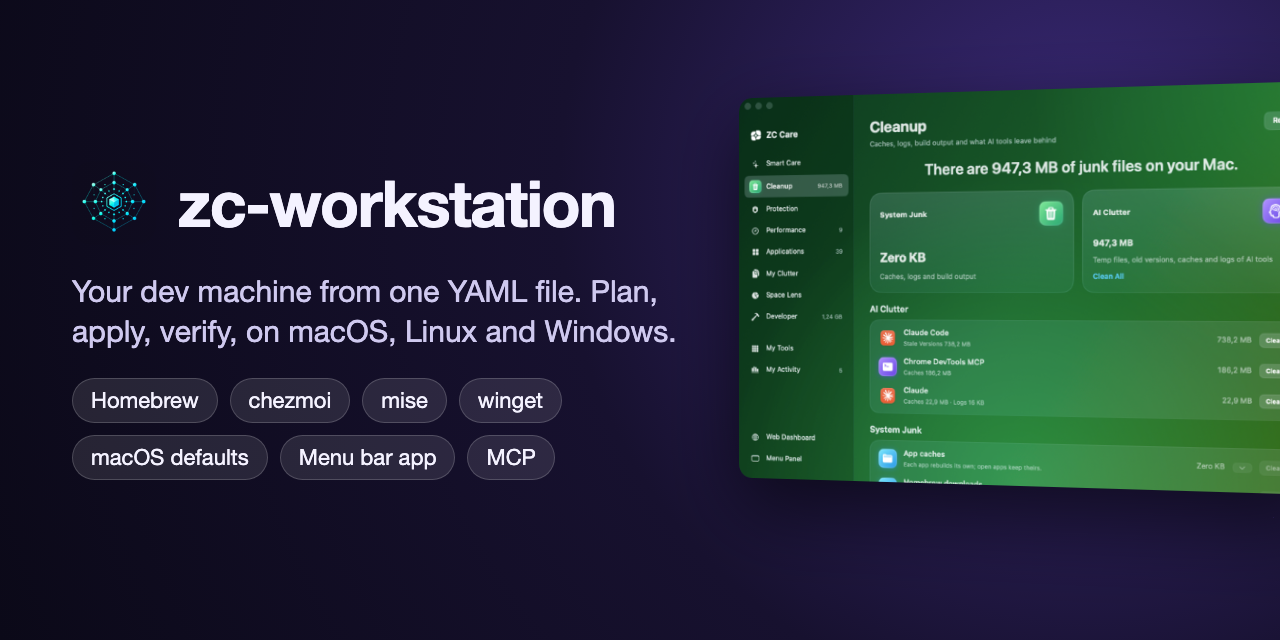
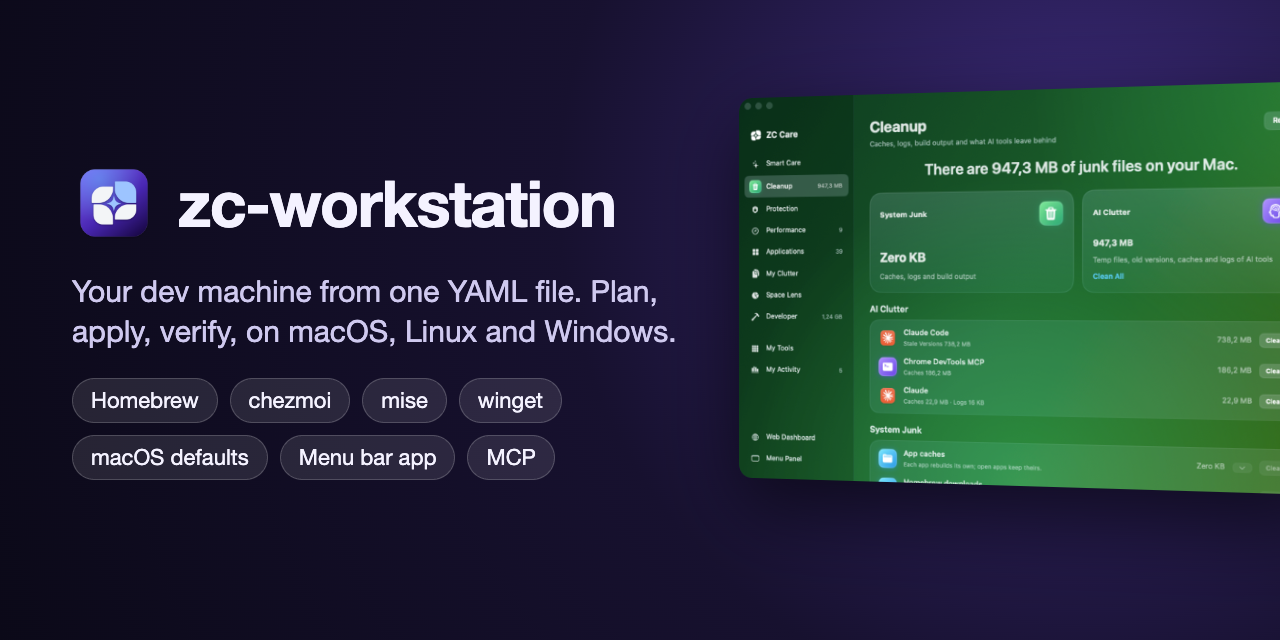
docs(app): add a readme with screenshots and diagrams
The app folder had no README, so GitHub showed a bare file list there.
It now says how to install ZCBar, how it drives the CLI, what each panel
tab and ZC Care module does, where cleaned files go, what is never
touched, the zcbar:// URLs and how to develop it, with screenshots and
two diagrams: how the app reaches the CLI and files, and the
scan-review-confirm flow every module follows.

The repository mark and social preview now use the current ZoolCoder
logo, the one the app icon is drawn from.

Changed region(s): [[0.0625, 0.25, 0.125, 0.375]]

diff --git a/apps/menubar/README.md b/apps/menubar/README.md
@@ -1,0 +1,227 @@
+<p align="center">
+  <img src="../../.github/mark.png" alt="ZoolCoder" width="96">
+</p>
+
+<h1 align="center">ZCBar and ZC Care</h1>
+
+ZCBar is the macOS menu bar app for [zc-workstation](../../README.md). It
+shows what the CLI would change, your Mac's vitals and outdated packages,
+and opens **ZC Care**, a window that cleans, protects and tunes the Mac.
+Nothing changes until you approve it.
+
+<p align="center">
+  <img src="screenshots/care-smart.png" alt="ZC Care's Smart Care: cleanup, health, applications, performance and clutter in one scan" width="80%">
+</p>
+
+<p align="center">
+  <img src="screenshots/panel-mac.png" alt="The panel's Mac tab: health, security checks, disk, memory, battery, CPU and Wi-Fi" width="32%">
+  <img src="screenshots/panel-overview.png" alt="The panel's Overview tab: every target fully in place" width="32%">
+  <img src="screenshots/panel-updates.png" alt="The panel's Updates tab: outdated formulae with Update and Update All" width="32%">
+</p>
+
+## Install
+
+ZCBar needs macOS 14 or later, Xcode or the Swift toolchain, and the
+`zc-workstation` CLI. From the repository root:
+
+```console
+$ make app-install
+installed ~/Applications/ZCBar.app; open it once, then tick Open at login
+```
+
+This builds `bin/ZCBar.app`, signs it ad hoc and copies it to
+`~/Applications`. ZCBar has no Dock icon; look for the mark in the menu bar.
+
+A Finder-opened app gets no shell environment. ZCBar therefore:
+
+- reads `PATH` from your login shell
+- looks for `zc-workstation` on that `PATH`, then in `~/.local/bin` and
+  `/opt/homebrew/bin`
+
+If `ZC_WORKSTATION_CONFIG` is set, `make app-install` passes it to the app
+once. Use *Choose Config…* in the panel to change it later.
+
+## How it works
+
+ZCBar does not reimplement zc-workstation. It runs the CLI and reads its
+`-json` output. ZC Care is the one part that works on files itself:
+
+```mermaid
+flowchart LR
+    subgraph app["ZCBar.app"]
+        UI["ZCBar<br/>panel · ZC Care window<br/>SwiftUI + AppKit"]
+        Core["ZCBarCore<br/>CLI JSON · scans · care plans<br/>tested, no UI"]
+        UI --> Core
+    end
+    Core -->|"status · list · doctor -json"| CLI["zc-workstation CLI"]
+    Core -->|"plan -out, then apply · remove"| CLI
+    CLI --> Tools["brew · chezmoi · mise<br/>defaults · launchctl"]
+    Core -->|"scan, then delete or Trash<br/>after you confirm"| Files["caches · logs · apps<br/>clutter · idle dependencies"]
+    SB["SketchyBar · Raycast · scripts"] -->|"zcbar:// URLs"| UI
+```
+
+| ZCBar shows | From |
+|---|---|
+| What each target has and misses | `zc-workstation status -json` |
+| Outdated and undeclared items | `zc-workstation list -json` |
+| Health findings | `zc-workstation doctor -json` |
+| *Apply*, *Update* | `plan -out` (with `-upgrade` and `-only` for updates), then `apply` of that saved plan |
+| *Uninstall* | `zc-workstation remove` |
+
+Every change that touches the workstation goes through the CLI. The CLI's
+checks therefore hold here too: plan before apply, verify after, and no
+uninstall without a yes.
+
+ZC Care's cleaning works on files directly. Each module scans first and
+shows what it found. Nothing is removed until you press its button and
+confirm:
+
+```mermaid
+flowchart LR
+    I["Intro<br/>what the module does"] --> S["Scan<br/>reads only"]
+    S --> R["Review<br/>sizes, paths, checkboxes"]
+    R --> C{"Confirm?<br/>names what goes"}
+    C -->|no| R
+    C -->|yes| D["Delete caches<br/>Trash files and apps<br/>zc-workstation remove for casks"]
+    D --> L["Activity log<br/>what was freed"]
+```
+
+## The panel
+
+Click the mark, or press ⌃⌥Z, to open the panel.
+
+| Tab | Shows |
+|---|---|
+| Mac | Disk, memory, CPU, battery, network and sensors, the largest junk folders, and advice. |
+| Overview | Each target with what is in place and missing, and *Apply* per target. |
+| Updates | Outdated packages and runtimes, with *Update* per item and *Update All…*. |
+| Health | `doctor` findings, with *Fix*, *Copy Fix* and *Ignore*. |
+| Services | Homebrew services and launchd agents, with *Start*, *Run Now* and logs. |
+
+The panel's settings turn on:
+
+- notifications
+- the ⌃⌥Z hotkey
+- the weekly Smart Care scan
+- opening at login
+
+Each tile on the Mac tab opens a detail. *Free Up* on Disk lists the
+folders it can clear, with their sizes. *Top Apps* on CPU lists what is
+busy. The bottom bar opens ZC Care and the settings.
+
+If [SketchyBar](https://github.com/FelixKratz/SketchyBar) is installed,
+ZCBar sends it the count of open items for its `zcbar` item.
+
+## ZC Care
+
+| Module | Does |
+|---|---|
+| Smart Care | Scans everything at once: junk, clutter, updates, health. *Run* cleans up, then updates. |
+| Cleanup | Clears caches, logs, build output, npx packages and Mail downloads. Clears AI clutter: Claude Code temp files and old versions, and the caches and logs of Claude, Cursor, ChatGPT, Windsurf, Codex, Gemini CLI and Chrome DevTools MCP. Empties the Trash. |
+| Protection | Shows Gatekeeper's verdict per app, background apps and the privacy permissions apps hold. |
+| Performance | Manages login items and runs maintenance: free RAM, flush DNS, thin Time Machine snapshots, reindex Spotlight, clean Homebrew, Docker and simulators. |
+| Applications | Uninstalls an app with what it keeps in the Library. *Adopt* replaces a hand-installed app with its Homebrew cask. Finds leftovers of removed apps. |
+| My Clutter | Finds large files, duplicates, old downloads and installers. |
+| Space Lens | Maps what fills your home folder. |
+| Developer | Finds `node_modules` and virtualenvs of projects untouched for 90 days, and local models from Ollama, LM Studio and Hugging Face. |
+| My Tools | Lists every tool as a searchable card, including *Screen Cleaning Mode*. |
+| My Activity | Shows Mac health, disk use, what ZC Care freed by kind, recommendations and recent runs. |
+
+<p align="center">
+  <img src="../../docs/modules/ROOT/images/care-cleanup.png" alt="Cleanup: system junk and AI clutter" width="49%">
+  <img src="screenshots/care-applications.png" alt="Applications: every app with its size, last use, Brewfile status, Adopt and Uninstall" width="49%">
+</p>
+<p align="center">
+  <img src="screenshots/care-performance.png" alt="Performance: maintenance tasks and launch agents" width="49%">
+  <img src="../../docs/modules/ROOT/images/care-tools.png" alt="My Tools: every tool as a searchable card" width="49%">
+</p>
+
+Each module opens on an intro that says what it does, before anything is
+scanned:
+
+<p align="center">
+  <img src="screenshots/care-protection.png" alt="Protection's intro: security settings, background items and application permissions" width="70%">
+</p>
+
+### Where things go
+
+- **Deleted:** junk, caches and AI clutter. Each tool makes them again.
+- **Moved to the Trash:** files, apps, leftovers, dependencies and models.
+  You can put them back.
+- **Uninstalled through `zc-workstation remove`:** Homebrew apps, so they
+  also leave the Brewfile.
+- **Admin tasks** ask for your password in a macOS dialog.
+
+### What it never touches
+
+- AI chats, settings and sessions: `~/.claude/projects`, `~/.codex/sessions`.
+- The Claude Code version that `~/.local/bin/claude` runs.
+- A Claude Code temp folder used in the last day.
+- Caches of apps that are open.
+
+ZC Care keeps its last scan in `~/Library/Caches/dev.zoolcoder.zcbar` and its
+activity log in `~/Library/Application Support/dev.zoolcoder.zcbar`. Both are
+outside what Cleanup clears.
+
+### Permissions
+
+- **Full Disk Access** lets Protection read privacy permissions. An ad hoc
+  signed build is a new app to macOS, so each rebuild asks again.
+- **Finder automation** lets Cleanup empty the Trash. It asks once.
+
+## URLs
+
+ZCBar registers the `zcbar://` scheme, so scripts, SketchyBar and Raycast
+can open it:
+
+| URL | Opens |
+|---|---|
+| `zcbar://panel` | Toggles the panel. |
+| `zcbar://panel/updates` | A panel tab. |
+| `zcbar://panel/overview/home` | A target in the Overview tab. |
+| `zcbar://panel/mac/disk` | A tile in the Mac tab. |
+| `zcbar://care` | The ZC Care window. |
+| `zcbar://care/cleanup` | A module, matched by the start of its name. |
+
+```console
+$ open zcbar://care/developer
+```
+
+## Layout
+
+```text
+Package.swift        SwiftPM: ZCBarCore, ZCBar, ZCBarCoreTests
+Sources/ZCBarCore/   the logic, no UI: CLI JSON, discovery, scans, care plans, activity log
+Sources/ZCBar/       the SwiftUI and AppKit app: panel, Care window, hotkey, notifications
+Tests/ZCBarCoreTests/ tests for ZCBarCore
+Resources/           AppIcon.icns and MenuBarMark.pdf
+screenshots/         the images in this README
+icon/                mark.svg and make-icon.swift, which draws the icons
+package.sh           builds the release binary and wraps it in an ad hoc signed .app
+```
+
+## Develop
+
+From the repository root:
+
+```console
+$ make app-test      # swift test: the ZCBarCore tests
+$ make app           # bin/ZCBar.app
+$ make app-install   # copy it to ~/Applications
+$ make app-icon      # redraw the icons from icon/mark.svg
+```
+
+Put logic in `ZCBarCore`; it is what the tests cover. Keep `ZCBar` to views
+and AppKit glue.
+
+A change that deletes or trashes files must:
+
+- ask first, naming what it removes
+- come with a test proving it leaves alone what it must keep
+
+`zcbar://` URLs open the installed app, so test them after
+`make app-install`. CI builds and tests the app on a macOS runner.
+
+More is in the manual's
+[Menu bar app and ZC Care](https://zoolcoder.github.io/zc-workstation/zc-workstation/app.html)
+page.
